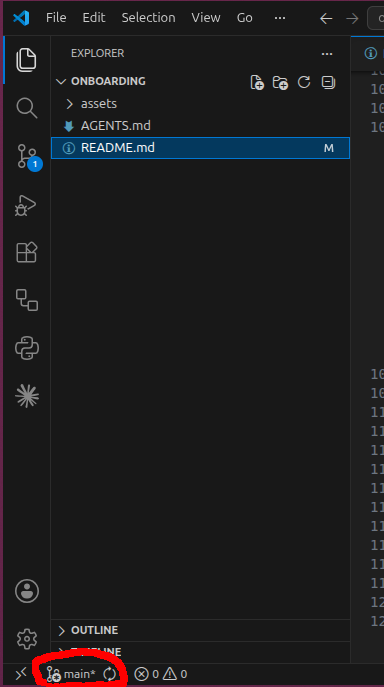
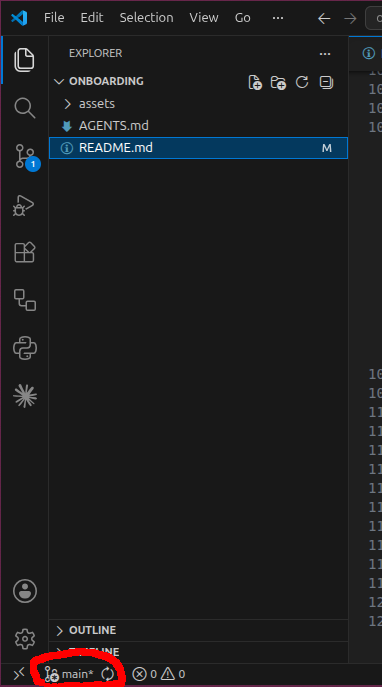
more images and reformatting

diff --git a/README.md b/README.md
@@ -189,16 +189,20 @@ Open a file from the File Explorer and edit it as usual, then save it (`Ctrl+S`)
 ## Staging the changes for a commit
 
 In the Source Control panel, hover over a changed file and click the **+** icon to stage it, or click **+** next to "Changes" to stage all files. Staged files move to the "Staged Changes" section. Staging lets you decide exactly which changes go into the next commit, so that each commit groups related changes together. To unstage a file, click the **−** icon.
+
 ![img](./assets/images/git-stage.png)
 
 ## Making a commit
 
 Type a short, meaningful commit message into the text field at the top of the Source Control panel, for example "Fix unit conversion in data loader", and click "Commit". Good commit messages describe *what* changed and, if not obvious, *why*. If you have not staged anything, VS Code will ask whether to commit all changes directly.
+
 ![img](./assets/images/git-commit-message.png)
 
 ## Pushing the changes to the remote
 
 After committing, your commits only exist locally. Click "Sync Changes" in the Source Control panel (or the "..." menu -> "Push") to upload your commits to GitHub. If the remote contains changes you do not have yet, you have to pull first.
+
+![img](./assets/images/git-push.png)
 
 ## Checking out a specific file from another branch or commit
 
